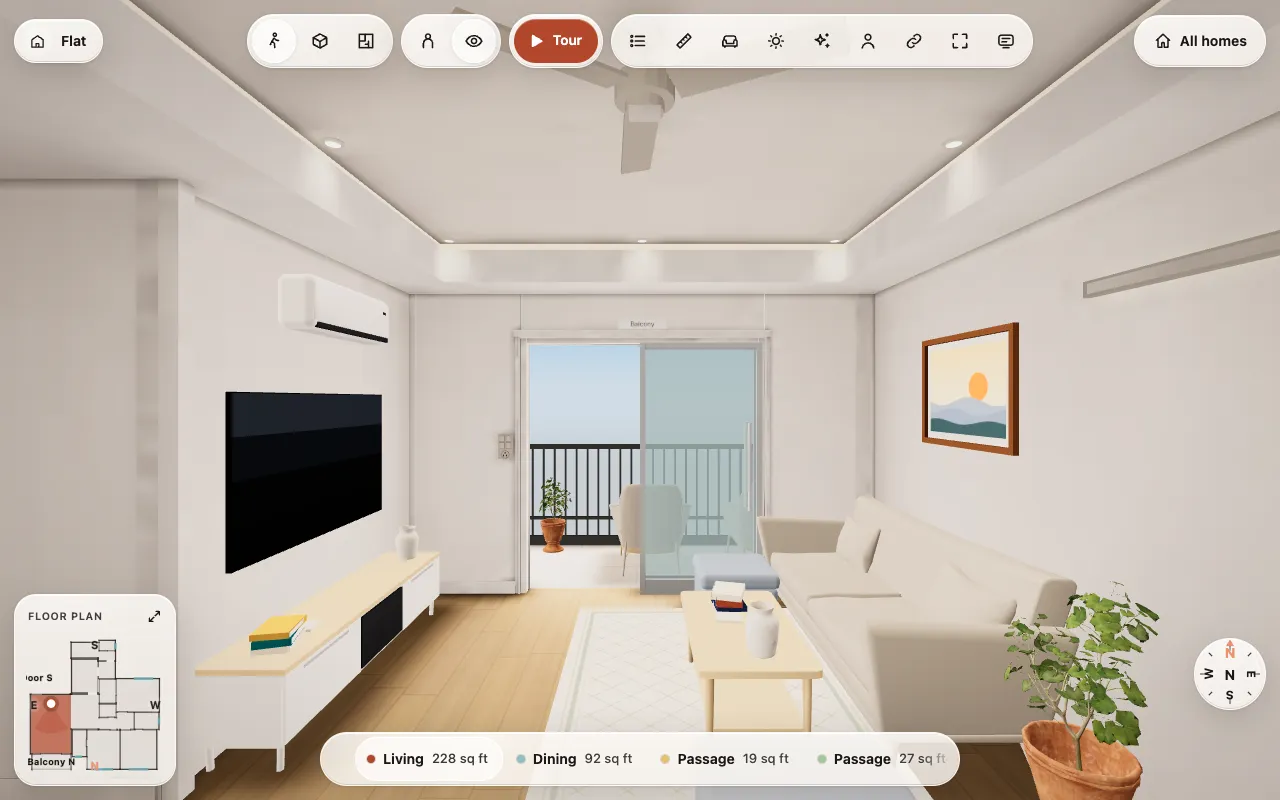
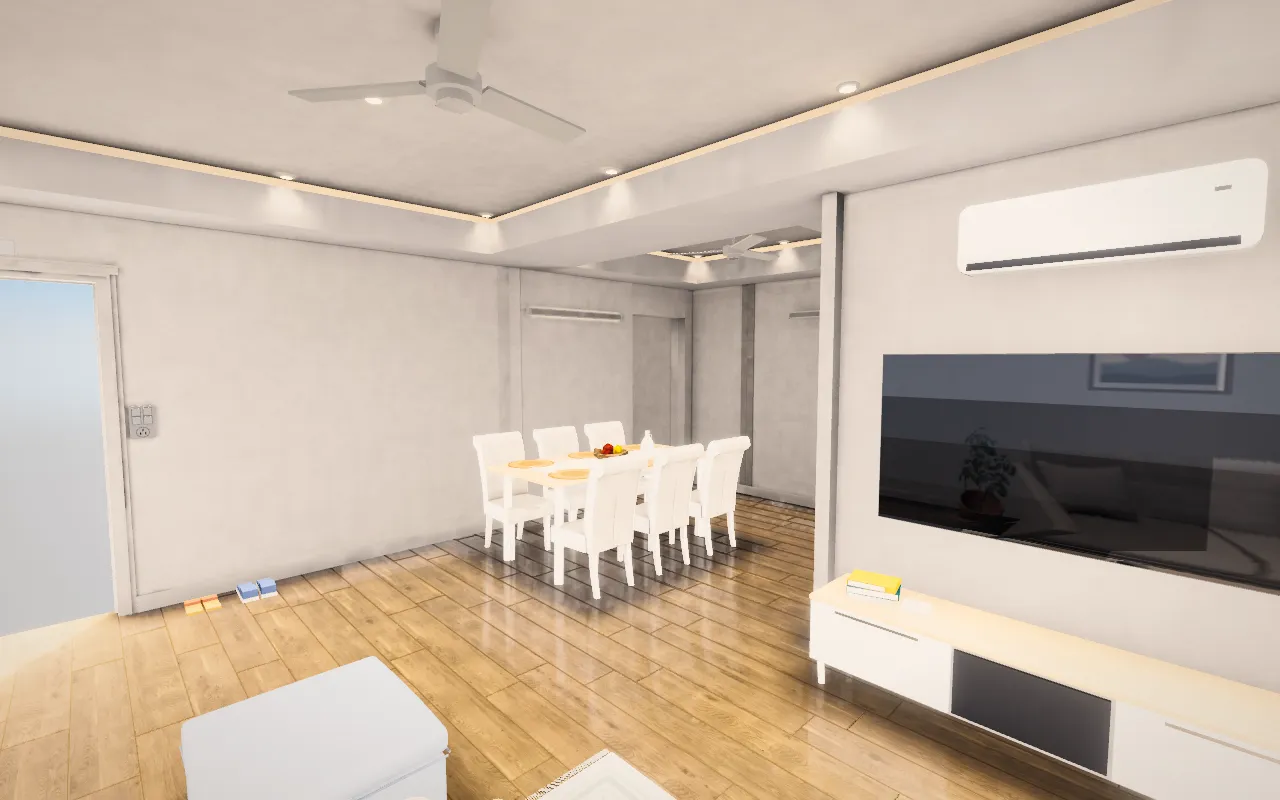
Homepage pictures at the high tier on the GPU: real furniture models, 2K materials and the baked light
The previous set was taken with software GL, which makes the app pick the phone tier (low models, small textures, flat light). Lobby, tour, doll house, plan, dining, living and the pool deck re-shot; each under 100 KB.

diff --git a/src/landing/landing.ts b/src/landing/landing.ts
@@ -42,8 +42,8 @@ const SHOTS: { file: string; w: number; h: number; title: string; text: string; 
   { file: 'doll', w: 1120, h: 700, title: 'Doll house', text: 'The whole flat from above with the ceiling off, furniture and all.', alt: 'A furnished flat seen from above as a doll house, every room open.' },
   { file: 'plan', w: 1280, h: 800, title: 'Plan view', text: 'The floor plan with room names and sizes, one tap from the walk.', alt: 'The floor plan of a flat with room names and sizes.' },
   { file: 'map', w: 1440, h: 900, title: 'The whole building', text: 'Every floor and every flat on one page. Pick a flat and walk in.', alt: 'The building page: the tower drawn floor by floor beside a grid of every flat with its number and type.' },
-  { file: 'pool', w: 1280, h: 720, title: 'Clubhouse and pool', text: 'The amenities are walked like any room: the pool deck, the gym, the halls.', alt: 'The pool deck of the clubhouse level in the 3D walk.' },
-  { file: 'materials', w: 1280, h: 800, title: 'Realistic materials', text: 'Wood, stone and fabric from photographed material maps.', alt: 'A kitchen in the 3D walk with photographed wood and stone materials.' },
+  { file: 'pool', w: 1280, h: 720, title: 'Clubhouse and pool', text: 'The amenities are walked like any room: the pool deck, the gym, the halls.', alt: 'The pool deck of the clubhouse level in the 3D walk: a row of loungers on timber decking beside the pool, trees and flowering shrubs beyond.' },
+  { file: 'materials', w: 1280, h: 800, title: 'Realistic materials', text: 'Wood, stone and fabric from photographed material maps.', alt: 'The dining area of a flat in the 3D walk: an oak-plank floor, upholstered chairs and a laid table under a coffered ceiling.' },
   { file: 'clean', w: 1600, h: 900, title: 'Made for the sales-room screen', text: 'On a big screen the controls step away, and the home is the picture.', alt: 'A living room filling the screen with the controls hidden.' },
 ];
 

diff --git a/SPEC.md b/SPEC.md
@@ -351,7 +351,7 @@ The page a developer's marketing head is sent to. It sells a done-for-you, white
 
 **The page, top to bottom.** Dark (the boot screen's warm charcoal, warm off-white text, terracotta the one accent) except the Projects band.
 - **Hero.** A slim rounded nav (mark, wordmark, "Walk a project", and "Talk to us" when `CONTACT_URL` is set), the label "White-labelled 3D walkthroughs for real-estate developers", the headline, which is the tagline "Have your building / walkthrough ready / before you place / the first beam" (`TAGLINE`, also the tab and link-preview title), with a hand-drawn stroke that draws in once under the last line; "We make your project impossible to ignore" heads the closing band, the building (below), one paragraph, "Walk a sample project" (the featured building's map page) and "See how it works", then three facts: "Under your brand", "Built from your drawings, with AI", "Lobby to flat, clubhouse and pool in one walk". On a phone the building stands between the headline and the paragraph, so it is in the first screen. No numbers, customers, logos or testimonials. The copy says what is true: the plan reader is AI, a team assembles and checks; nothing is called automatic or instant.
-- **How it works** (three steps: you send the drawings and the brochure; AI reads the plans and we build and check; you get a link under your brand) and **What you get**: eight real pictures of the product, taken from the running sample (`public/landing/*.webp`, each under 100 KB, lazy, sizes set): the branded walk, the tour, the doll house, the plan, the building map, the pool deck, realistic materials, the clean view. They are captured with `tools/landing-shot.cdp.js` (23 Nov 2026, after the CC BY furniture and its re-bake): the lobby at `?building=sample-tower&space=lobby&chrome=always` with the identity card opened; Flat 204 at `?building=sample-tower&space=f2-204&autohide=0` with the Tour button pressed, `&view=doll` and `&view=plan`; the building page `?building=sample-tower`; `?scene=test-tower-flat-3bhk-a&at=2,6,0&cam=first&materials=2k&autohide=0` and `&at=2,7.2,0&cam=first&chrome=hidden`. The pool deck is the real/outdoor capture `app-pool-deck-after.png` at 1280 x 720. They are encoded to WebP at quality 0.8 (the pool 0.62, to stay under 100 KB) by headless Chrome's canvas encoder, since `cwebp` is not installed here.
+- **How it works** (three steps: you send the drawings and the brochure; AI reads the plans and we build and check; you get a link under your brand) and **What you get**: eight real pictures of the product, taken from the running sample (`public/landing/*.webp`, each under 100 KB, lazy, sizes set): the branded walk, the tour, the doll house, the plan, the building map, the pool deck, realistic materials, the clean view. They are captured (23 Nov 2026, after the CC BY furniture and its re-bake) at the high tier with 2K materials (`quality=high&materials=2k`), in headless Chrome on the Mac's GPU (`--use-angle=metal`): software GL makes the app pick the low tier, whose phone models, small textures and simple light made the first set look dated. The lobby, tour, doll house and plan are `tools/landing-shot.cdp.js` at `?building=sample-tower&space=lobby&chrome=always` (identity card opened) and `space=f2-204&autohide=0` (Tour pressed, `&view=doll`, `&view=plan`), each after the 2K swap has finished (`realismProgress`); the building page is `?building=sample-tower`; the dining ("Realistic materials"), living ("sales-room screen") and pool deck frames are free-camera poses with the UI hidden, as `tools/finish/shots.js` takes them: 3 BHK A dining eye (1.0, 1.6, 9.9) to (4.8, 1.2, 6.0), living eye (2.0, 1.6, 5.9) to (2.0, 1.4, 10.7) at 1600 x 900, pool eye (2.0, 1.6, 2.0) to (9, 0.4, 14) at 1280 x 720. WebP by headless Chrome's canvas encoder at quality 0.8 (the pool 0.5), each under 100 KB.
 - **Projects band** (paper): the heading "Projects", then the buildings, the homes, "Your uploads" and the upload card exactly as the start page renders them (`renderGallery` draws into the band).
 - **Closing band**: the headline again, the primary button, "Talk to us" when there is an address, a small foot.
 - **Contact.** `CONTACT_URL` in `config.ts` (a `mailto:`, `https:` or `tel:` address, checked by `contactHref`). Empty, as now: no contact button anywhere.
